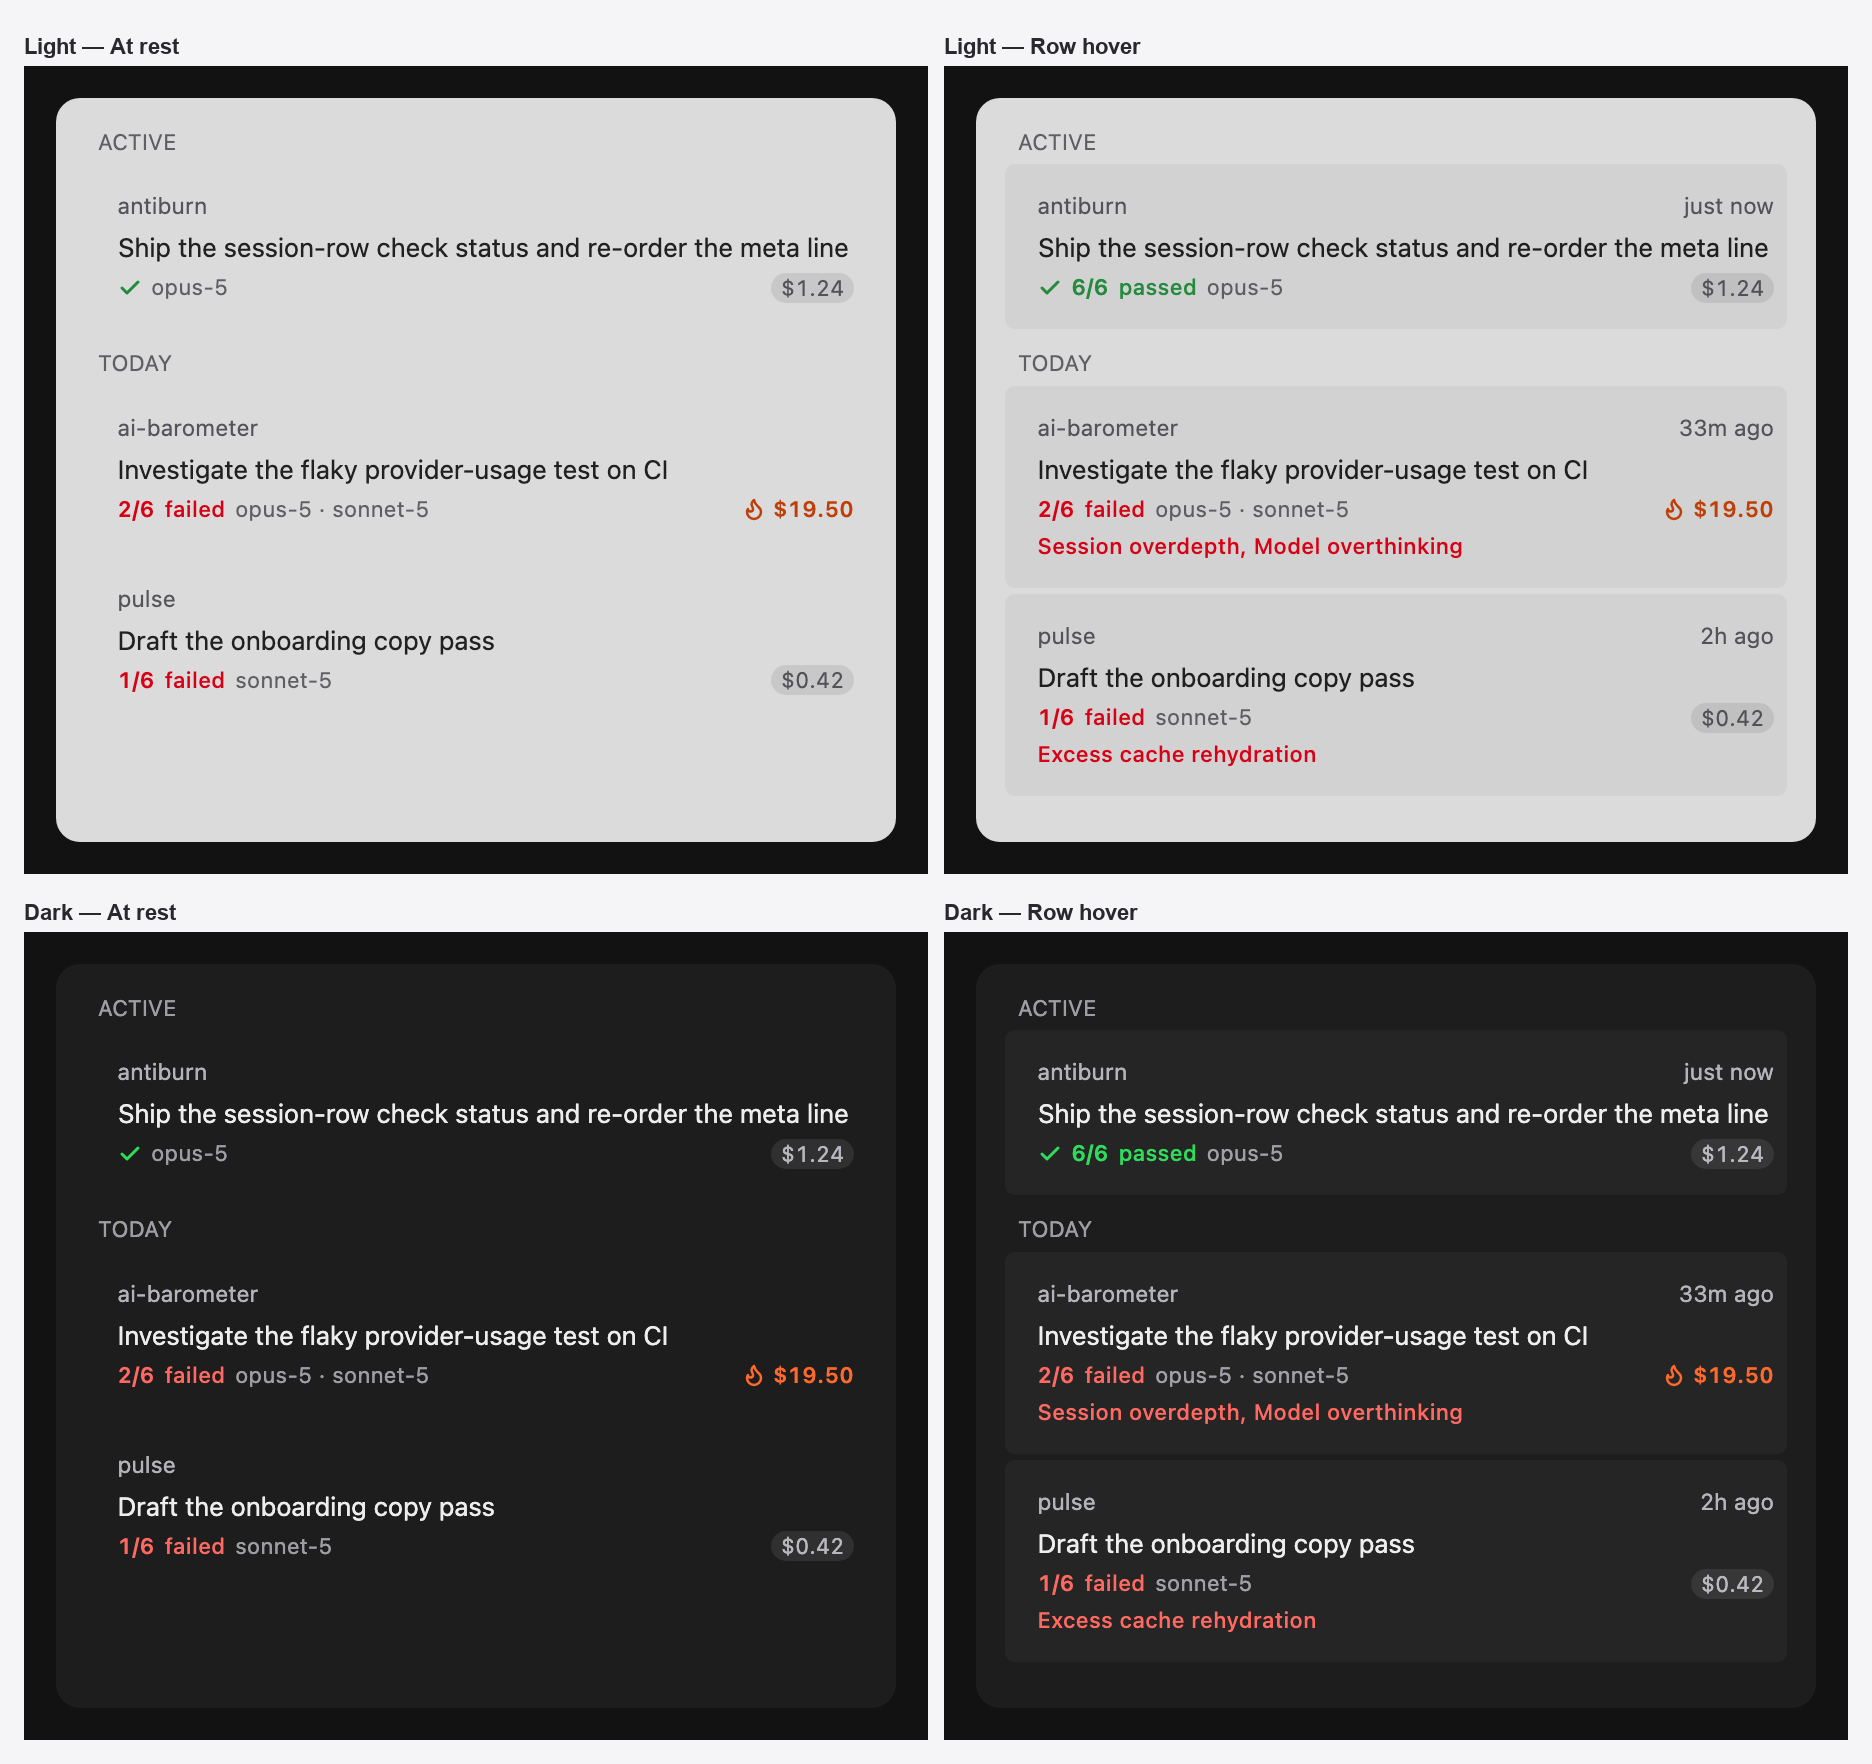
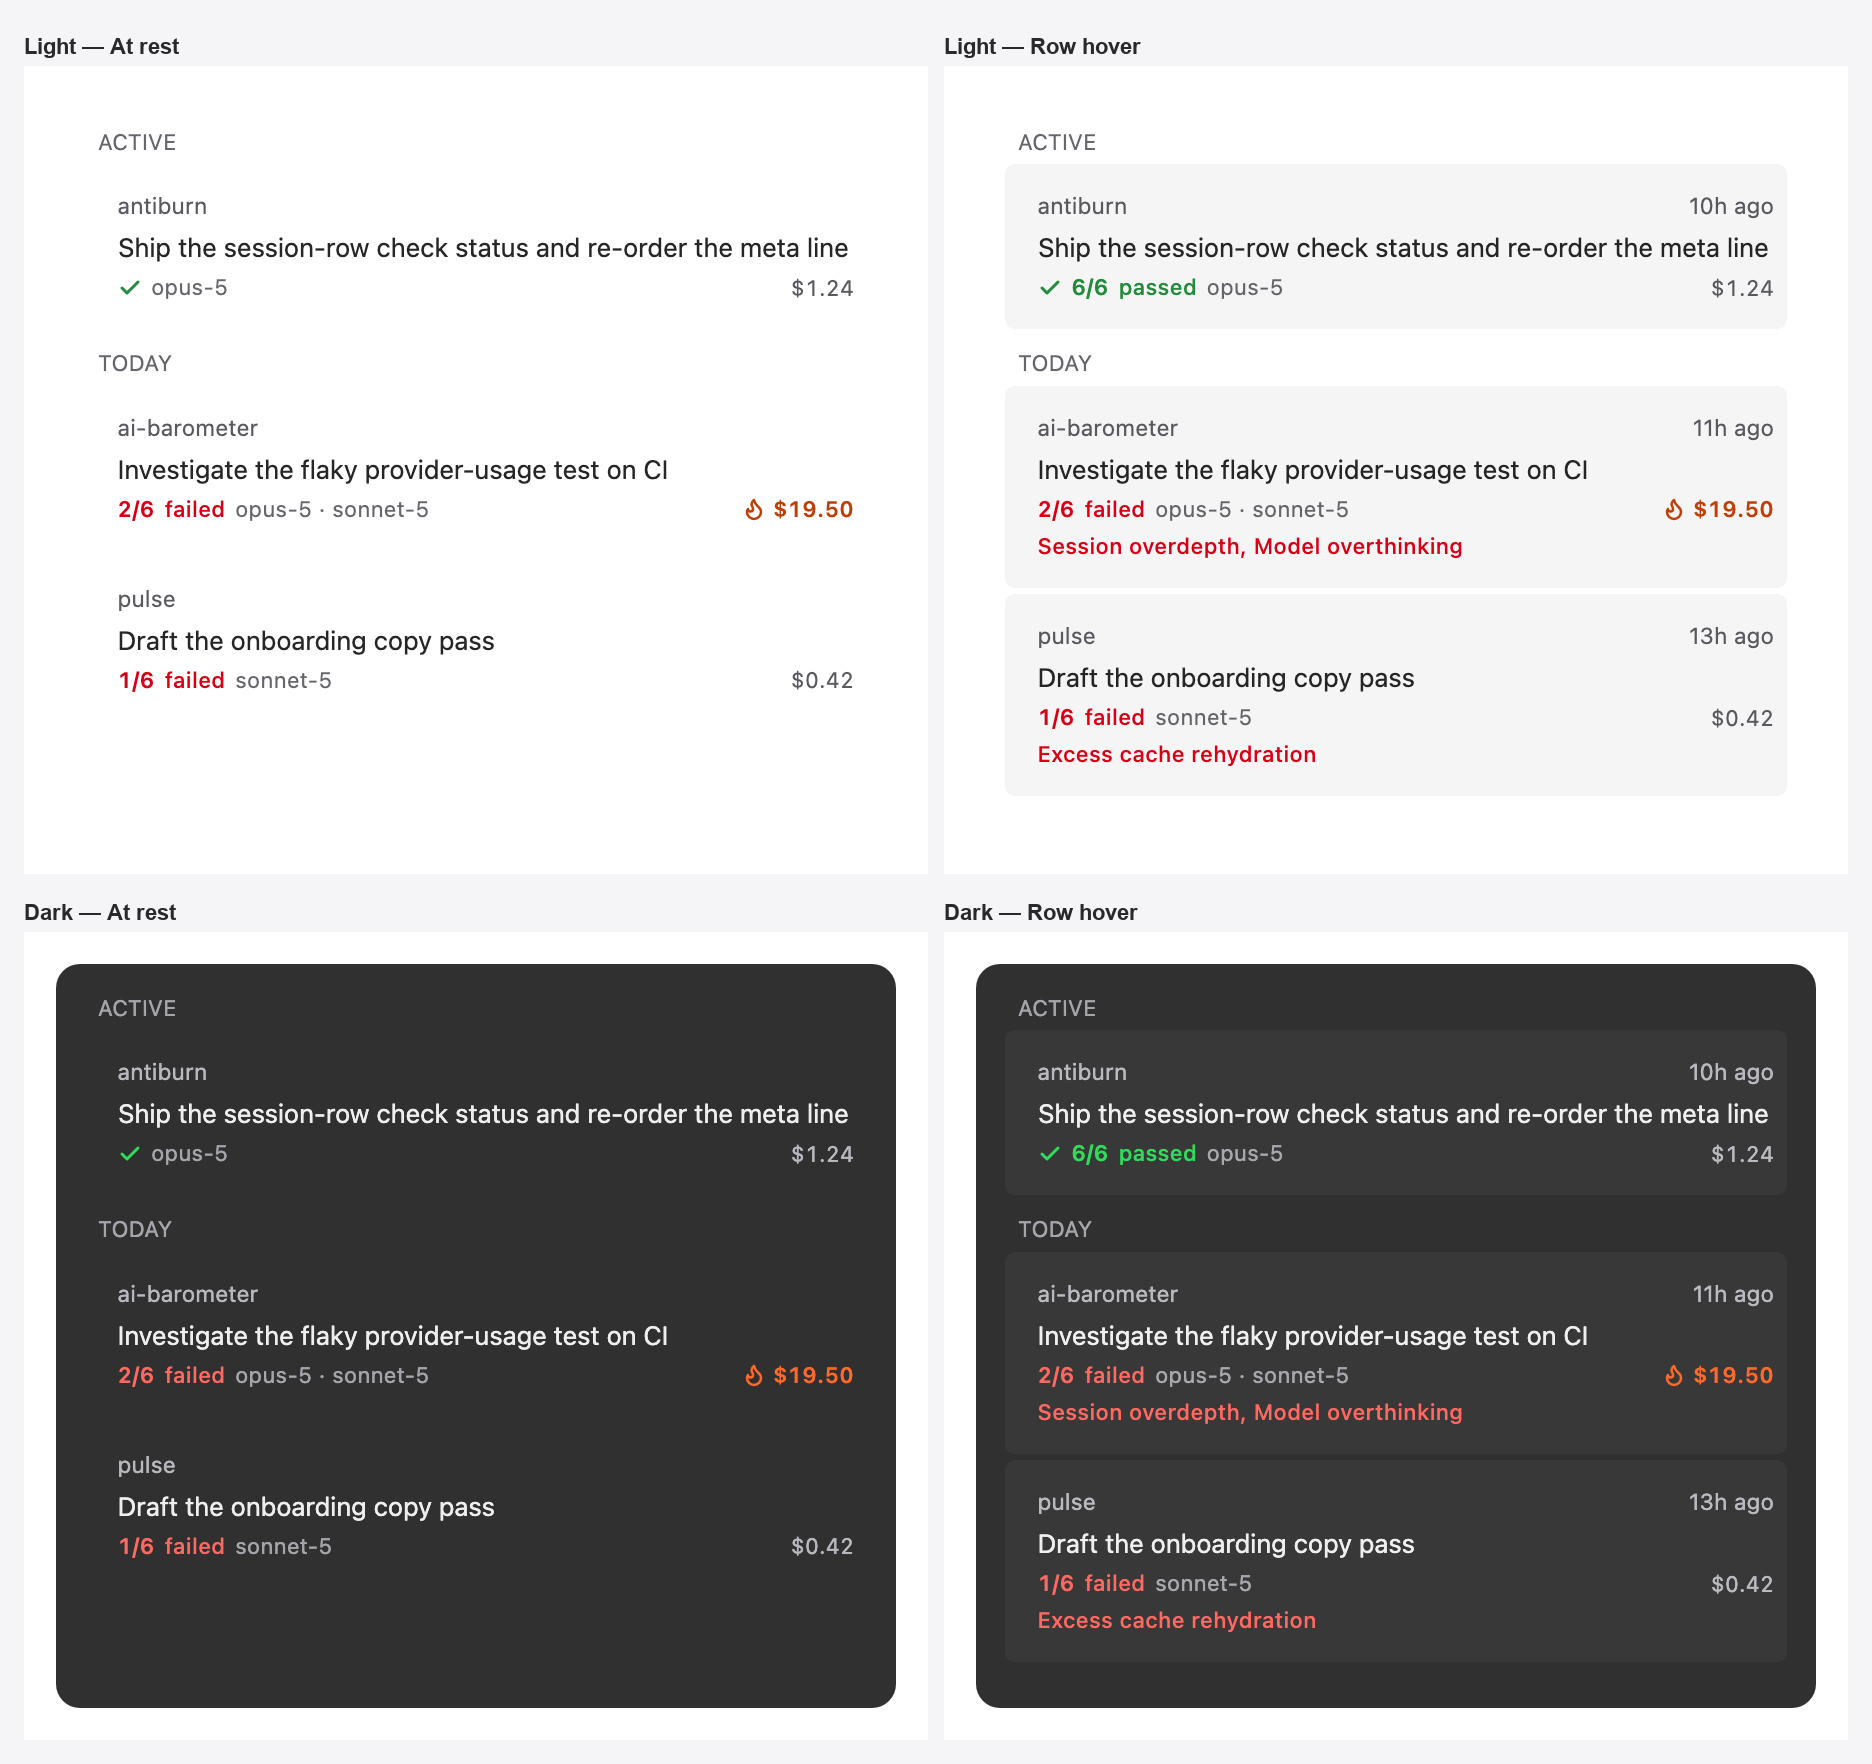
feat(desktop): drop the pill from the usual cost figure too
The outlier figure lost its pill in the previous commit. Keith asked for
the same for the usual figure, so both are plain text now: label-secondary
at the type step's own weight, one step louder than the model names.

diff --git a/apps/desktop/src/components/session/metrics/SessionCostBadge.tsx b/apps/desktop/src/components/session/metrics/SessionCostBadge.tsx
@@ -15,12 +15,12 @@ import { TextRoll } from "../../ui/TextRoll"
 
 const COST_BADGE_CLASS = "flex items-center shrink-0 type-caption tabular-nums leading-[13px]"
 
-/** The usual state: a grey pill that stays quiet beside the model names. */
-const COST_CALM_CLASS =
-  "gap-0.5 px-1.5 py-px rounded-full font-medium bg-label-tertiary/15 text-label-secondary"
+/* The usual state: plain text, one step louder than the model names beside it.
+   The weight comes from `.type-caption`, which keeps it quiet. */
+const COST_CALM_CLASS = "gap-0.5 text-label-secondary"
 
-/* The outlier state drops the pill. The flame and the weight carry it instead.
-   `.type-caption` sets its own weight, so the utility needs `!` to win. */
+/* The outlier state: the flame and the weight carry it. `.type-caption` sets
+   its own weight, so the utility needs `!` to win. */
 const COST_HIGH_CLASS = "gap-1 font-semibold! text-brand"
 
 export interface SessionCostBadgeProps {
@@ -34,23 +34,23 @@ export interface SessionCostBadgeProps {
   figureLabel: string
   /** Every model that contributed billable tokens, as a muted subtitle. */
   models?: string[]
-  /** Unusually expensive against comparable sessions. Drops the pill for a flame and heavy orange type. */
+  /** Unusually expensive against comparable sessions. Adds a flame and heavy orange type. */
   isHighCost?: boolean
   /** Billable component rows (input / output / cache read / cache write). */
   breakdownRows?: CostRow[]
   /**
-   * Extra classes for the badge — a `relative top-px` nudge to optically align
+   * Extra classes for the figure — a `relative top-px` nudge to optically align
    * with adjacent baseline text in a row, say. Omit on a centered flex line.
    */
   className?: string
 }
 
 /**
- * The cost badge and its tooltip, driven entirely by the values it is given.
+ * The cost figure and its tooltip, driven entirely by the values it is given.
  *
  * Every figure is an on-device estimate from the model's per-token rates. The
- * badge leads with the number because that is the answer the reader came for;
- * the component rows underneath explain how it was reached.
+ * figure leads because that is the answer the reader came for; the component
+ * rows underneath explain how it was reached.
  */
 export function SessionCostBadge({
   totalUsd,
@@ -62,7 +62,7 @@ export function SessionCostBadge({
 }: SessionCostBadgeProps) {
   return (
     <Tooltip
-      // Wide card: drop it below the badge rather than to the side, where it
+      // Wide card: drop it below the figure rather than to the side, where it
       // can run off the window. Radix collision handling then shifts it
       // horizontally to stay in view.
       side="bottom"

diff --git a/apps/desktop/src/components/session/metrics/SessionCostBadge.test.tsx b/apps/desktop/src/components/session/metrics/SessionCostBadge.test.tsx
@@ -21,18 +21,19 @@ describe("SessionCostBadge", () => {
     expect(badge.className).toContain("text-brand")
   })
 
-  it("drops the pill for the outlier state", () => {
+  it("weights the outlier figure, and paints no pill in either state", () => {
     render(<SessionCostBadge totalUsd={19.5} figureLabel="Estimated cost" isHighCost />)
     const badge = screen.getByLabelText(/higher than usual/)
-    expect(badge.className).not.toContain("rounded-full")
     expect(badge.className).toContain("font-semibold!")
+    expect(badge.className).not.toContain("rounded-full")
   })
 
-  it("uses the calm pill when the session is not an outlier", () => {
+  it("stays plain text when the session is not an outlier", () => {
     render(<SessionCostBadge totalUsd={0.4} figureLabel="Projected cost" />)
     const badge = screen.getByLabelText("Projected cost $0.40")
-    expect(badge.className).toContain("bg-label-tertiary/15")
-    expect(badge.className).toContain("rounded-full")
+    expect(badge.className).toContain("text-label-secondary")
+    expect(badge.className).not.toContain("rounded-full")
+    expect(badge.className).not.toContain("bg-")
   })
 
   it("shows the component rows and models in the tooltip", () => {
@@ -60,7 +61,7 @@ describe("SessionCostBadge", () => {
     expect(screen.getAllByText(/over 3× your typical session/).length).toBeGreaterThan(0)
   })
 
-  it("appends caller classes to the pill geometry", () => {
+  it("appends caller classes to the figure geometry", () => {
     render(
       <SessionCostBadge
         totalUsd={1}
@@ -68,7 +69,7 @@ describe("SessionCostBadge", () => {
         className="relative top-px"
       />,
     )
-    const pill = screen.getByLabelText("Estimated cost $1.00")
-    expect(pill.className).toContain("relative top-px")
+    const figure = screen.getByLabelText("Estimated cost $1.00")
+    expect(figure.className).toContain("relative top-px")
   })
 })

diff --git a/apps/desktop/src/components/session/SessionList.tsx b/apps/desktop/src/components/session/SessionList.tsx
@@ -56,7 +56,7 @@ export interface SessionListEntry {
   hasForkParent?: boolean | undefined
   /** How many sessions were forked from this one. */
   forkChildCount?: number | undefined
-  /** Display values for the cost pill; omit when nothing priced the session. */
+  /** Display values for the cost figure; omit when nothing priced the session. */
   cost?: SessionCostBadgeProps | null | undefined
   /** Parent model runs followed by runs used only by sub-agents. */
   modelRuns?: PresentableModelRun[] | undefined

diff --git a/docs/plans/session-row-check-status.md b/docs/plans/session-row-check-status.md
@@ -100,10 +100,11 @@ Keith reviewed the running app and asked for four changes. All are in this chang
 3. **Cost moves down to the models line**, right-aligned. **Time moves up to the repo
    line**, top right. Together these land points 1-3 of the chosen layout in
    `session-list-chosen-layout`, apart from the branch line, which still has no data.
-4. **The hot cost loses its pill** — a flame glyph on the left plus semibold `brand`
-   orange type. `.type-caption` sets its own weight, so the weight utility needs `!`.
-   The calm cost keeps the grey pill, which now reads as the quiet state against the
-   loud one.
+4. **The cost loses its pill in both states.** An outlier gets a flame glyph on the left
+   plus semibold `brand` orange type; `.type-caption` sets its own weight, so the weight
+   utility needs `!`. A usual cost is plain `label-secondary` text at the type step's own
+   weight, one step louder than the model names beside it. Keith asked for the outlier
+   pill first, then for the grey one as well.
 
 ## Out of scope
 
